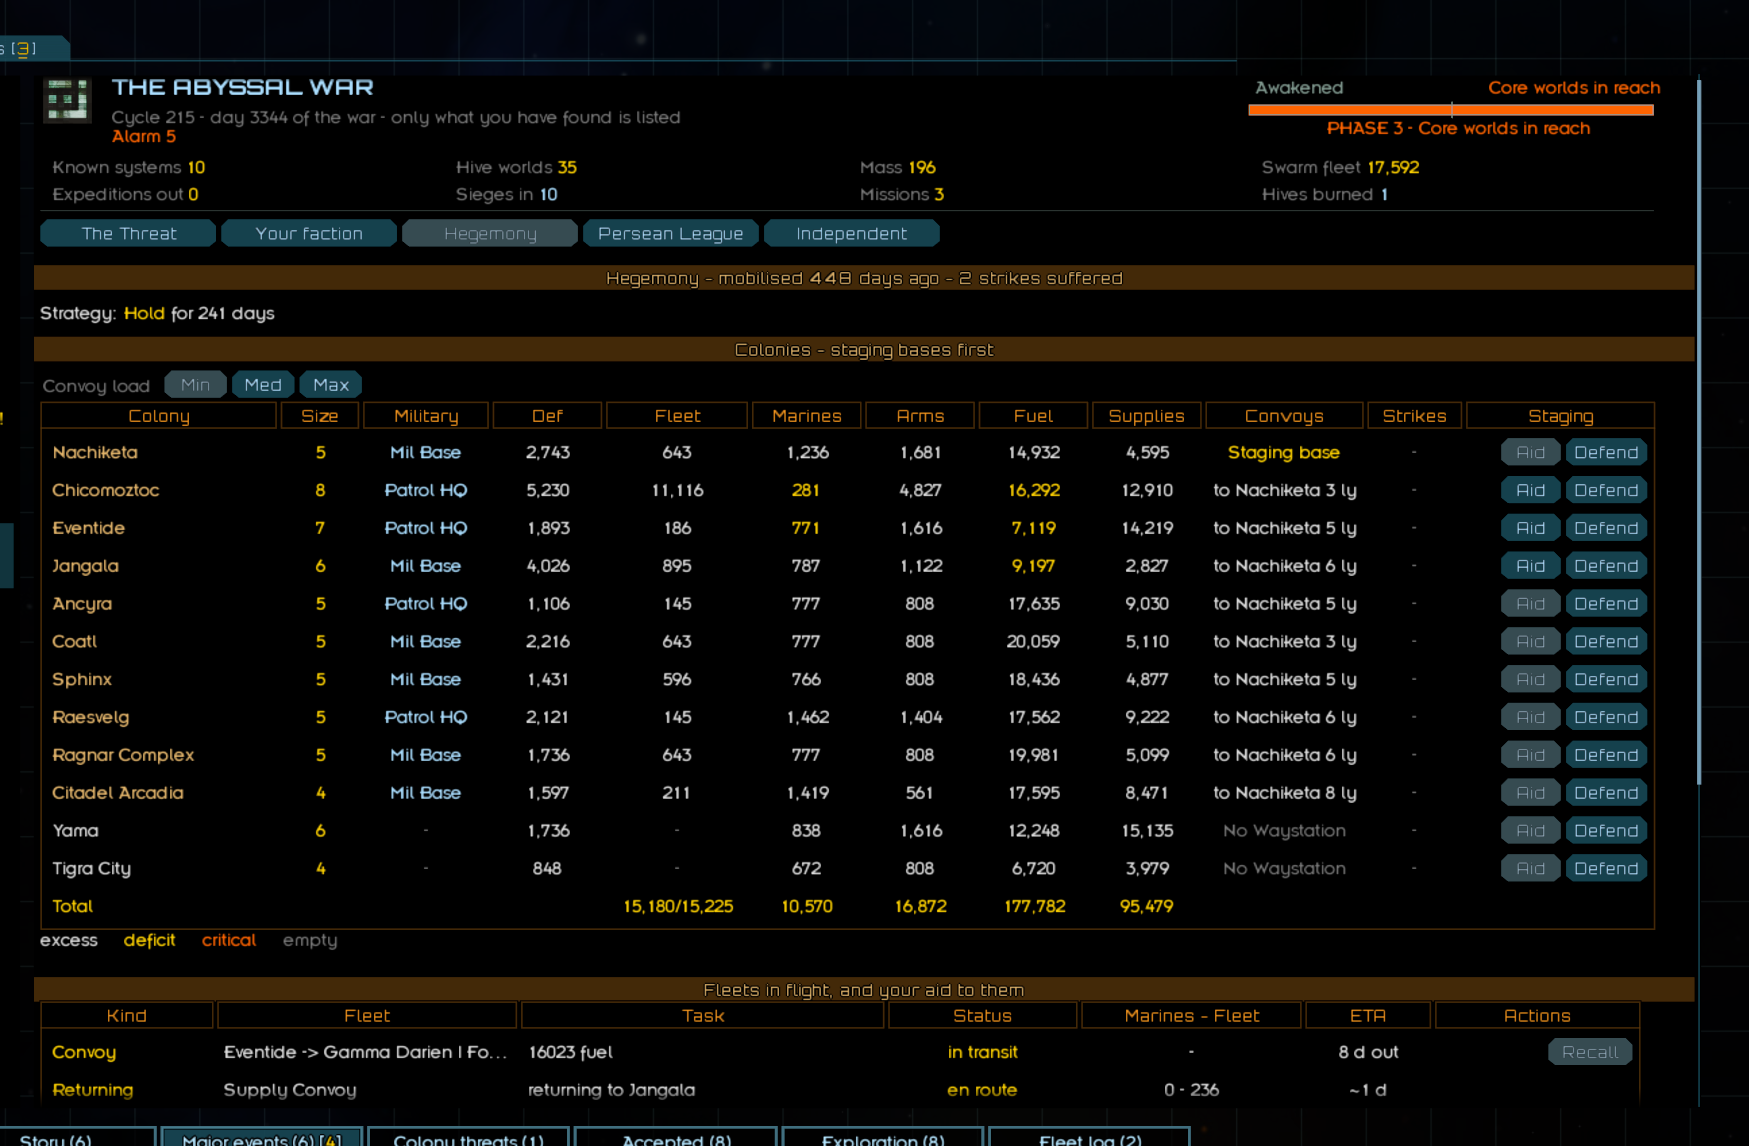
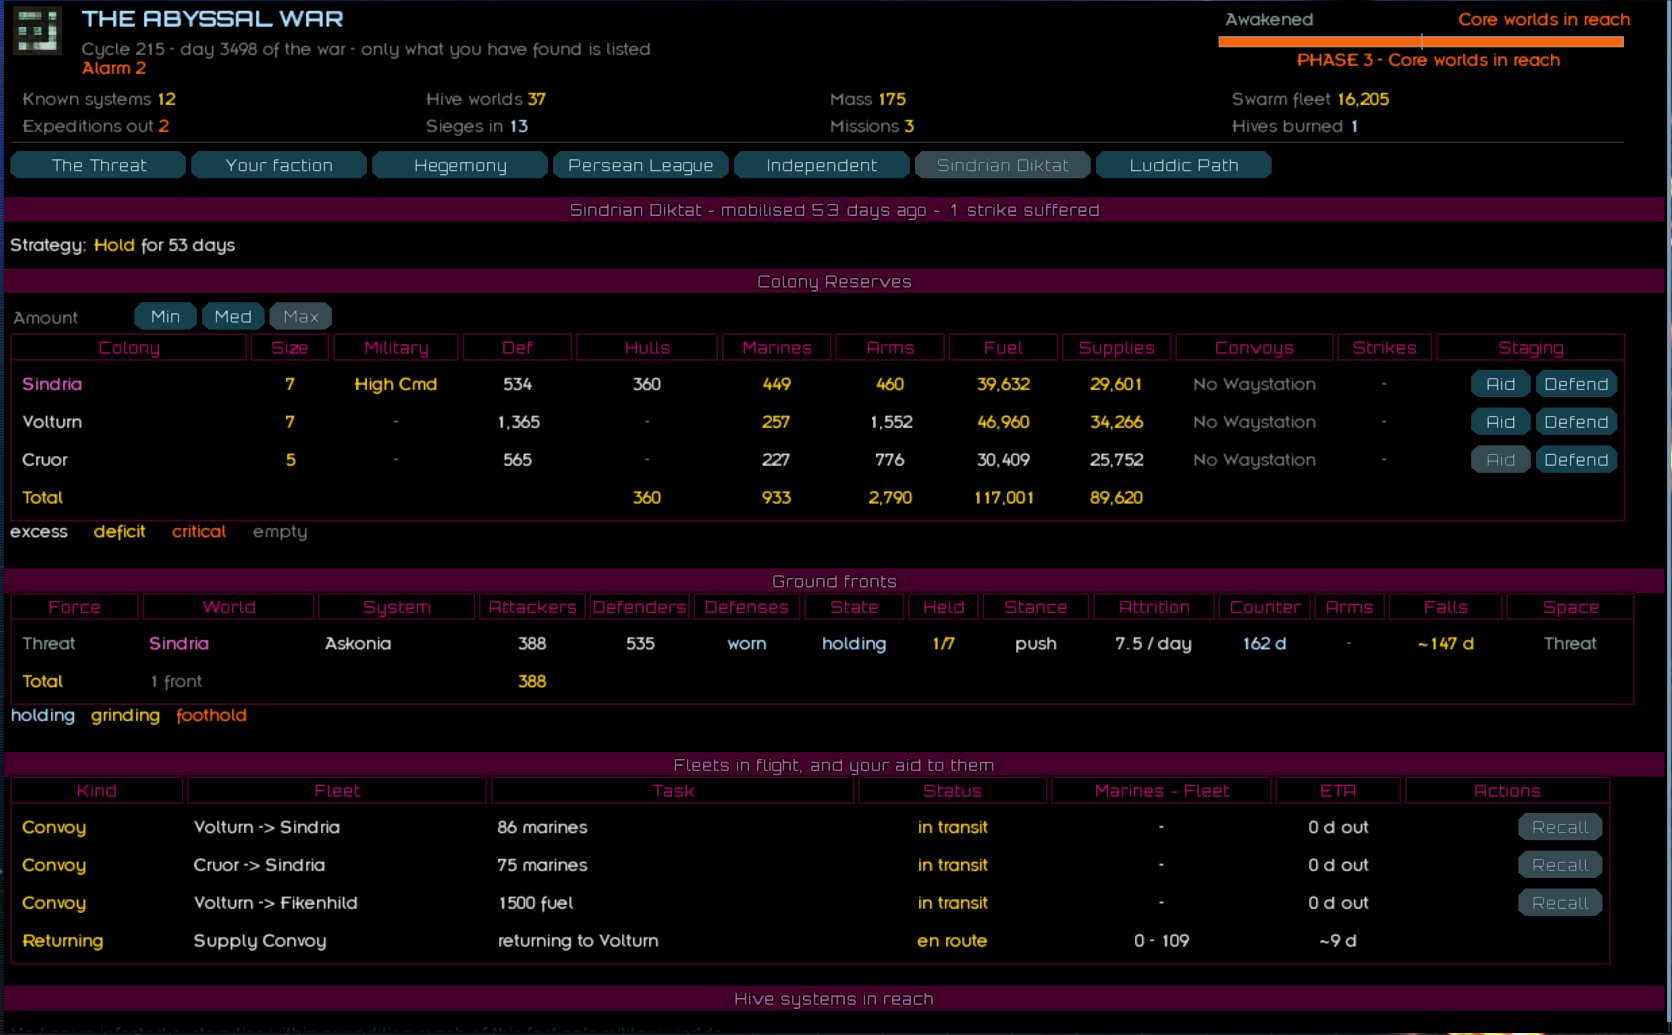
Forum screenshots refreshed from screenshots.odt: new threat board (12 systems, Thrial panel), faction board (Sindrian Diktat with the Threat's front on Sindria), front tooltip (swarm bombarding an uncontested front), and a new Hive Vitality shot of a besieged hive; captions in forum_post.bbcode and

diff --git a/forum_post.md b/forum_post.md
@@ -17,7 +17,7 @@ At game start a new system in the outer reaches of the sector will be seeded wit
 [center][img width=900]https://raw.githubusercontent.com/pogoman/ThreatIncursion/main/forum/threat-board.png[/img]
 [i]The Threat: every system you have found, in priority order - vitality, swarms, reach, strikes out, and what each one makes.[/i][/center]
 [center][img width=900]https://raw.githubusercontent.com/pogoman/ThreatIncursion/main/forum/faction-board.png[/img]
-[i]Any mobilised faction, read the same way: the Persean League's reserves, its two fronts on Gamma Brador, and the aid you can send.[/i][/center]
+[i]Any mobilised faction, read the same way: the Sindrian Diktat's reserves, the Threat's front on Sindria, and the aid you can send.[/i][/center]
 
 [size=14pt][b]Starting scenarios[/b][/size]
 
@@ -35,10 +35,14 @@ Once you have your own colonies you can mobilise to enter the war yourself. You 
 [size=14pt][b]Bombardment and raid changes[/b][/size]
 Sat bombardments have been modified to be extremely fuel inefficient. Tac bombardments are much more efficient but only disrupt military structures a few days at a time, and if ground defenses or heavy batteries exist they will eliminate some of your ships in orbit proportional to current ground strength vs your fleet strength. In vanilla military structures all give a multiplicative increase to ground strength. In this mod this multiplier is reduced proportional to disruption days. By far the most efficient way to disrupt military structures is with marines, but costs will be high at the beginning.
 
+[center][img]https://raw.githubusercontent.com/pogoman/ThreatIncursion/main/forum/hive-vitality.png[/img]
+[i]A hive under siege: supplies cut off, its Fabrication Core and port disrupted, growth starving.[/i][/center]
+
 There are a lot of mechanics at play here but all are explained in various tooltips. Any uncertainties just ask and i will clarify.
 
 [size=14pt][b]Sieges[/b][/size]
-[img]https://raw.githubusercontent.com/pogoman/ThreatIncursion/main/forum/ground-front.png[/img]
+[center][img]https://raw.githubusercontent.com/pogoman/ThreatIncursion/main/forum/ground-front.png[/img]
+[i]Your front on Delta Mengryla I: strength, defenders, strata held - and the swarm bombarding it from an orbit nobody contests.[/i][/center]
 
 It is important to note while you can override marine actions they will function autonomously and react to various events like counter attacks and bombardments themselves. I'm listing the various interactions below but dont stress and think you have to manage them all. Ultimately if you want a siege to properly succeed make sure your control the space above the planet and it should be enough for the marines to get the job done. If they need resupply it will be automatically sent from the nearest colony assuming it has spare resources and FP. Otherwise you can always resupply them yourself. Keep in mind the Threat will send defensive swarms from neighbouring systems to take back control and if left alone will start bombing your marines from orbit.
 
